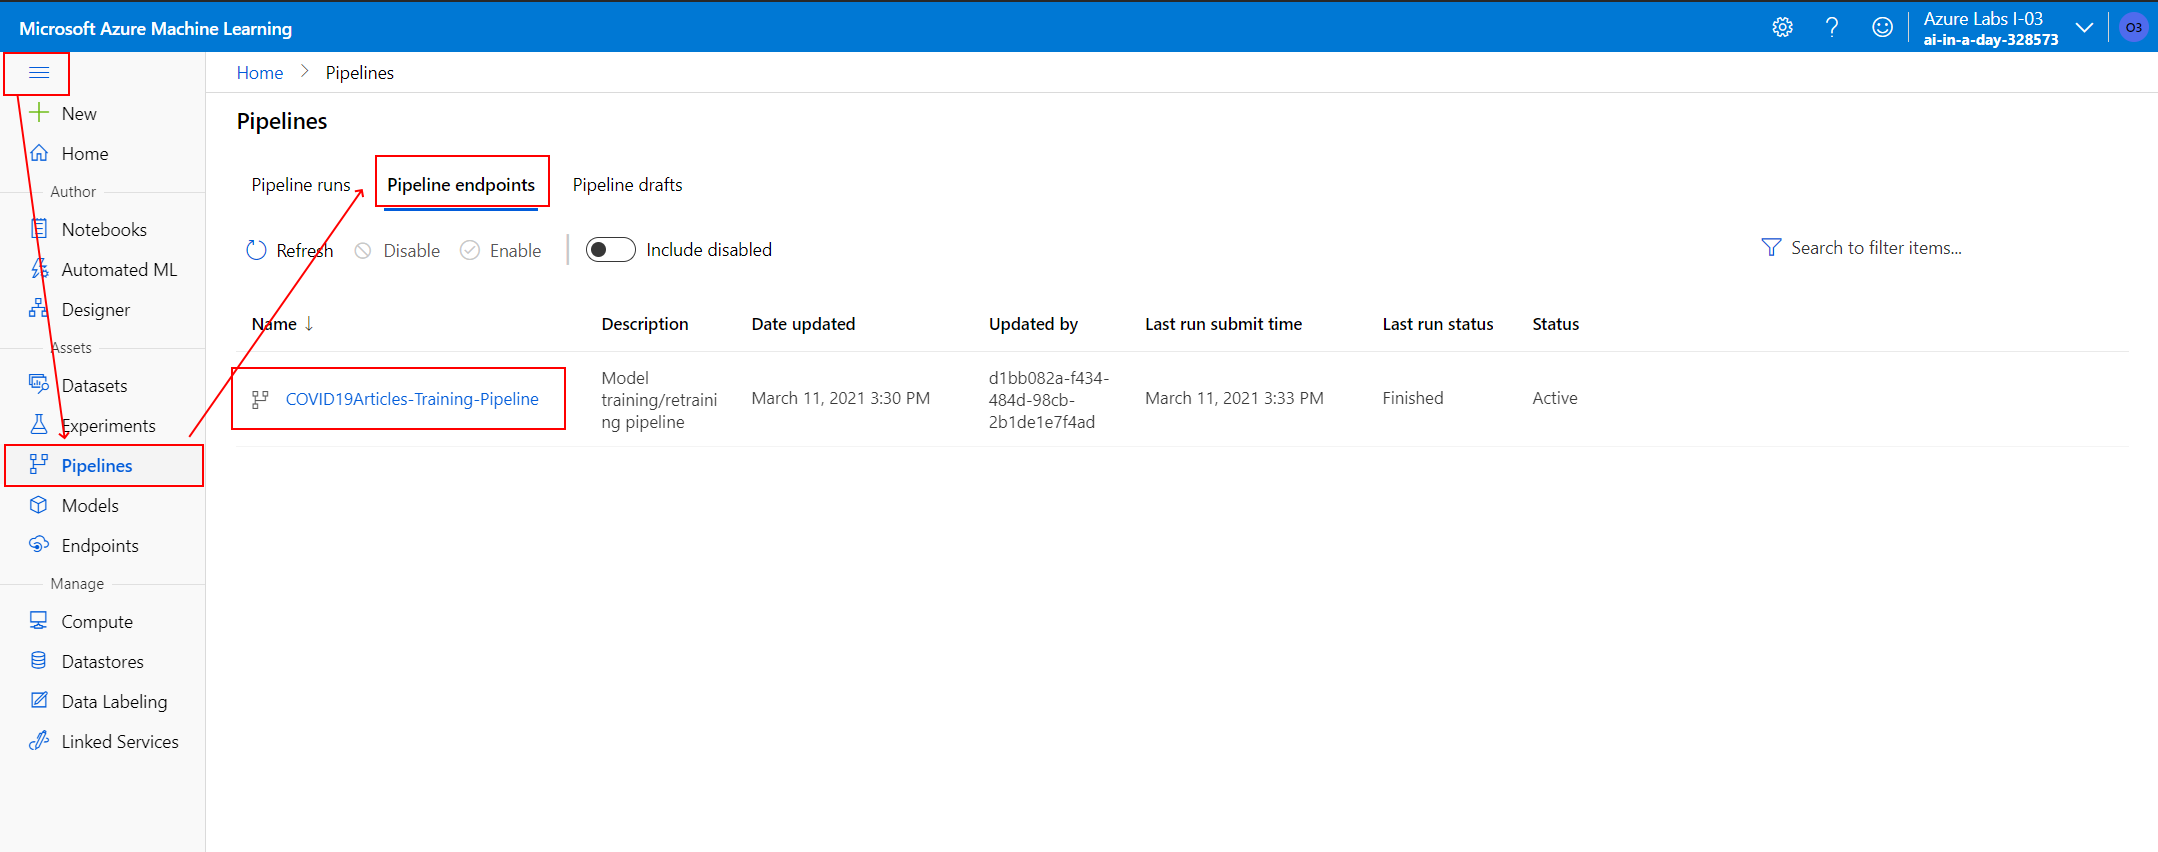
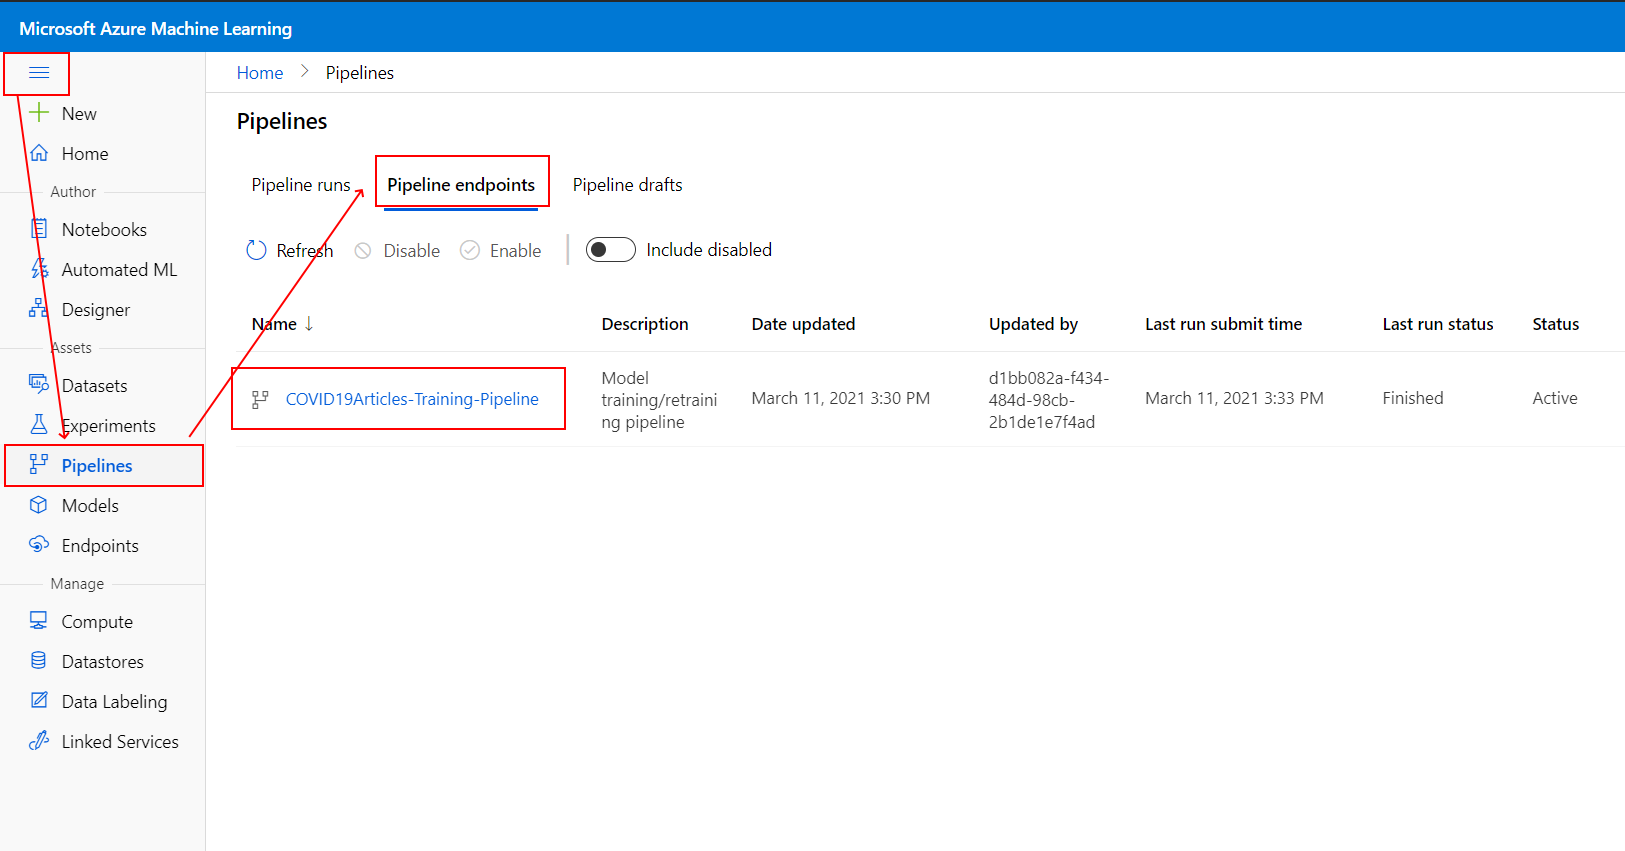
Updating lab documents

diff --git a/artifacts/environment-setup/lab06-setup-workspace.md b/artifacts/environment-setup/lab06-setup-workspace.md
@@ -38,8 +38,8 @@
     | ------------------------ | ------------------------- | --------------------------------------------------------------------------------------------------------------------------- |
     | BASE_NAME                | [your project name] e.g. `odluserXXXXXX-project`     | Unique naming prefix for created resources - max 10 chars, letters and numbers only                                         |
     | LOCATION                 | `westus`                 | Resource group location (the value you looked for on the previous step)                             |
-    | RESOURCE_GROUP           | `aml-bootcamp-XXXXXX`                | Azure Resource Group name                                                                                                   |
-    | WORKSPACE_NAME           | `aml-bootcamp-XXXXXX`             | Azure Machine Learning Workspace name                                                                                                     |
+    | RESOURCE_GROUP           | `azure-ml-data-science-400-XXXXXX`                | Azure Resource Group name                                                                                                   |
+    | WORKSPACE_NAME           | `azure-ml-data-science-400-XXXXXX`             | Azure Machine Learning Workspace name                                                                                                     |
     | AZURE_RM_SVC_CONNECTION  | `azure-resource-connection` | Azure Resource Manager Service Connection name |
     | WORKSPACE_SVC_CONNECTION | `aml-workspace-connection`  | Azure ML Workspace Service Connection name                 |
     | ACI_DEPLOYMENT_NAME      | `mlops-aci`                 | [Azure Container Instances](https://azure.microsoft.com/en-us/services/container-instances/) name                           |                 |
@@ -80,11 +80,9 @@ Create a new service connection to your Azure ML Workspace to enable executing t
 1. Go to the [GitHub portal](https://github.com/) and sign in with the Git credentials provided for you.
 2. You will be asked to verify your account, so you should open your user's mailbox in [the Outlook web client](https://outlook.office365.com/) to be able to receive the verification codes for GitHub authentication. Use the same GitHub user account credentials to open Outlook.
 
-3. In GitHub, while authenticated with the lab user, navigate to the following link to create a new git repository from [the provided template](https://github.com/solliancenet/aml-bootcamp-lab-06-starter/generate).
+3. In GitHub, while authenticated with the lab user, navigate to the following link to create a new git repository from [the provided template](https://github.com/solliancenet/azure-ml-data-science-400-lab06-starter/generate).
 
-    **TODO:  create repository.  Update the yml files**
-
-4. Set the repository name to `aml-bootcamp-lab06` and select **Create repository from template**.
+4. Set the repository name to `azure-ml-data-science-400-lab06` and select **Create repository from template**.
 
     **TODO:  update image**
     ![Generate git repository from template](../../day-03/media/02%20-%20github-%20generaterepo.png)
@@ -112,12 +110,12 @@ In the following steps you will create and run a new build pipeline based on the
 
     ![Authorize Azure Pipelines access to GitHub](../../day-03/media/01-github-authorizeaccess.png)
 
-5. Redirected back to Azure Devops, select the available Git repository, the one you generated during the previous task in this lab: `github-clouduser-XXXX/aml-bootcamp-lab-06`.
+5. Redirected back to Azure Devops, select the available Git repository, the one you generated during the previous task in this lab: `github-clouduser-XXXX/azure-ml-data-science-400-lab06`.
 
     **TODO:  update image**
     ![Select repository name](../../day-03/media/015-selectgitrepository.png)
 
-6. After you authorized the access for Azure Pipelines, you'll be asked to approve and install Azure Pipelines on your personal GitHub account. Select the `aml-bootcamp-lab06` repository and select **Approve & Install**.
+6. After you authorized the access for Azure Pipelines, you'll be asked to approve and install Azure Pipelines on your personal GitHub account. Select the `azure-ml-data-science-400-lab06` repository and select **Approve & Install**.
 
     **TODO:  update image**
     ![Approve and install Azure Pipelines on GitHub](../../day-03/media/01-github-approveinstall.png)
@@ -164,7 +162,7 @@ In the following steps you will create and run a new build pipeline based on the
 
     ![Connect to repository](../../day-03/media/014-createpipeline.png)
 
-4. Select the Git repository you already used for the first pipeline: `github-clouduser-XXXX/aml-bootcamp-lab-02`.
+4. Select the Git repository you already used for the first pipeline: `github-clouduser-XXXX/azure-ml-data-science-400-lab-02`.
 
     **TODO:  update image**
     ![Select repository name](../../day-03/media/015-selectgitrepository.png)
@@ -204,12 +202,12 @@ In the following steps you will create and run a new build pipeline based on the
     ```sh
     # Replace {sp_XXXXX_githubactions}, setting "XXXXX" to your unique lab code.  For example, if your lab code is 12345, use "sp_12345_githubactions" for the name.
     # Replace {subscription-id} with your subscription ID.
-    # Replace {aml-bootcamp-XXXXX} in the resource groups section with the name of your resource group.
-    # Replace {aml-bootcamp-XXXXX} in the workspaces section with the name of your Azure Machine Learning workspace.
+    # Replace {azure-ml-data-science-400-XXXXX} in the resource groups section with the name of your resource group.
+    # Replace {azure-ml-data-science-400-XXXXX} in the workspaces section with the name of your Azure Machine Learning workspace.
     
     az ad sp create-for-rbac --name http://{sp_XXXXX_githubactions} \
         --role contributor \
-        --scopes /subscriptions/{subscription-id}/resourceGroups/{aml-bootcamp-XXXXX}/providers/Microsoft.MachineLearningServices/workspaces/{aml-bootcamp-XXXXX} \
+        --scopes /subscriptions/{subscription-id}/resourceGroups/{azure-ml-data-science-400-XXXXX}/providers/Microsoft.MachineLearningServices/workspaces/{azure-ml-data-science-400-XXXXX} \
         --sdk-auth
     ```
 
@@ -299,7 +297,7 @@ In the following steps you will create and run a new build pipeline based on the
     Write-Host "PowerShell Blob trigger function Processed blob! Name: $($InputBlob.Path) Size: $($InputBlob.Length) bytes"
 
     $gitHubUser = "github-cloudlabsuser-1020"
-    $gitHubRepo = "aml-bootcamp-lab-06"
+    $gitHubRepo = "azure-ml-data-science-400-lab06"
     $uri = "https://api.github.com/repos/$($gitHubUser)/$($gitHubRepo)/dispatches"
     $headers = @{ Authorization="Bearer $($env:GH_PAT)" }
     $body = "{ ""event_type"": ""storage-blobupdated"" }"

diff --git a/day-03/lab06-mlops.md b/day-03/lab06-mlops.md
@@ -44,7 +44,7 @@ Using GitHub and GitHub Actions, we will build an end-to-end Machine Learning pr
 
 7. You will be asked to verify your account, so you should open your user's mailbox on https://outlook.office365.com/ to be able to receive the verification codes for GitHub authentication. Use the same GitHub user account credentials to open Outlook.
 
-8. In GitHub, you will see the `aml-bootcamp-lab06` repository that was pre-generated under your GitHub account.
+8. In GitHub, you will see the `azure-ml-data-science-400-lab06` repository that was pre-generated under your GitHub account.
 
     **TODO:  update image**
     ![View the GitHub repository](./media/01-devops-labrepository.png)
@@ -91,14 +91,12 @@ Using GitHub and GitHub Actions, we will build an end-to-end Machine Learning pr
 
 18. Select **Launch studio** to navigate to the **Azure Machine Learning Studio**.
 
-19. In the [Azure Machine Learning Studio](https://ml.azure.com), select **Pipelines** from the left navigation menu, go to **Pipeline endpoints** and check the published training pipeline in the `aml-bootcamp-XXXXXX` workspace.
+19. In the [Azure Machine Learning Studio](https://ml.azure.com), select **Pipelines** from the left navigation menu, go to **Pipeline endpoints** and check the published training pipeline in the `aml-ds400-XXXXXX` workspace.
 
-    **TODO:  crop image to cut off right-hand side**
     ![Inspect published ML pipeline](./media/025-checktrainingpipeline.png)
 
 20. The build pipeline for training automatically triggers every time there's a change in the master branch. After the pipeline is finished, you'll see a new model in the ML Workspace. Navigate to the **Models** section in [ML Studio](https://ml.azure.com/), using the left navigation menu and check the  registered model named `COVID19Articles_model.pkl`.
 
-    **TODO:  crop image to cut off right-hand side**
      ![Check the registered model](./media/026-registeredmodel.png)
 
 ## Task 3 - Explore the execution of the existing  Azure DevOps release pipeline
@@ -131,7 +129,7 @@ The release deployment and batch scoring pipelines have the following behaviors:
 
     ![Deploy the last version of model to ACI](./media/032-deploytoACI.png)
 
-5. Select the **Smoke test**: The test sends a sample query to the scoring web service and verifies that it returns the expected response. Have a look at the smoke [test code](https://github.com/solliancenet/aml-bootcamp-lab-06-starter/blob/master/ml_service/util/smoke_test_scoring_service.py) for more details on the steps involved there.
+5. Select the **Smoke test**: The test sends a sample query to the scoring web service and verifies that it returns the expected response. Have a look at the smoke [test code](https://github.com/solliancenet/azure-ml-data-science-400-lab06-starter/blob/master/COVID19Articles/ml_service/util/smoke_test_scoring_service.py) for more details on the steps involved there.
 
     ![Smoke test execution](./media/033-smoketest.png)
 
@@ -191,7 +189,7 @@ We have created sample workflow file train_deploy.yml to train the model and dep
 
 1. Sign-in to [GitHub](https://github.com) with your GitHub account.
 
-2. Navigate to the already generated repository for this lab, named `aml-bootcamp-lab06`. If the repository is not automatically opened, please select it from the available repositories list.
+2. Navigate to the already generated repository for this lab, named `azure-ml-data-science-400-lab06`. If the repository is not automatically opened, please select it from the available repositories list.
 
     **TODO:  update image**
     ![Locate GitHub repository](./media/01-github-selectrepository.png).
@@ -272,7 +270,7 @@ In the Azure Portal, we prepared an Azure Function that triggers the above descr
 
     ![Overwrite COVID19Articles.csv file](./media/040-overwritefile.png)
 
-8. Open the GitHub portal, select the `aml-bootcamp-lab-06` repository and select **Actions** from the top menu bar. Notice how the data file update triggered your GitHub Actions workflow execution.
+8. Open the GitHub portal, select the `azure-ml-data-science-400-lab-06` repository and select **Actions** from the top menu bar. Notice how the data file update triggered your GitHub Actions workflow execution.
 
     **TODO:  update image**
     ![Blob updated triggered GitHub Actions](./media/040-githubtriggeredaction.png)
